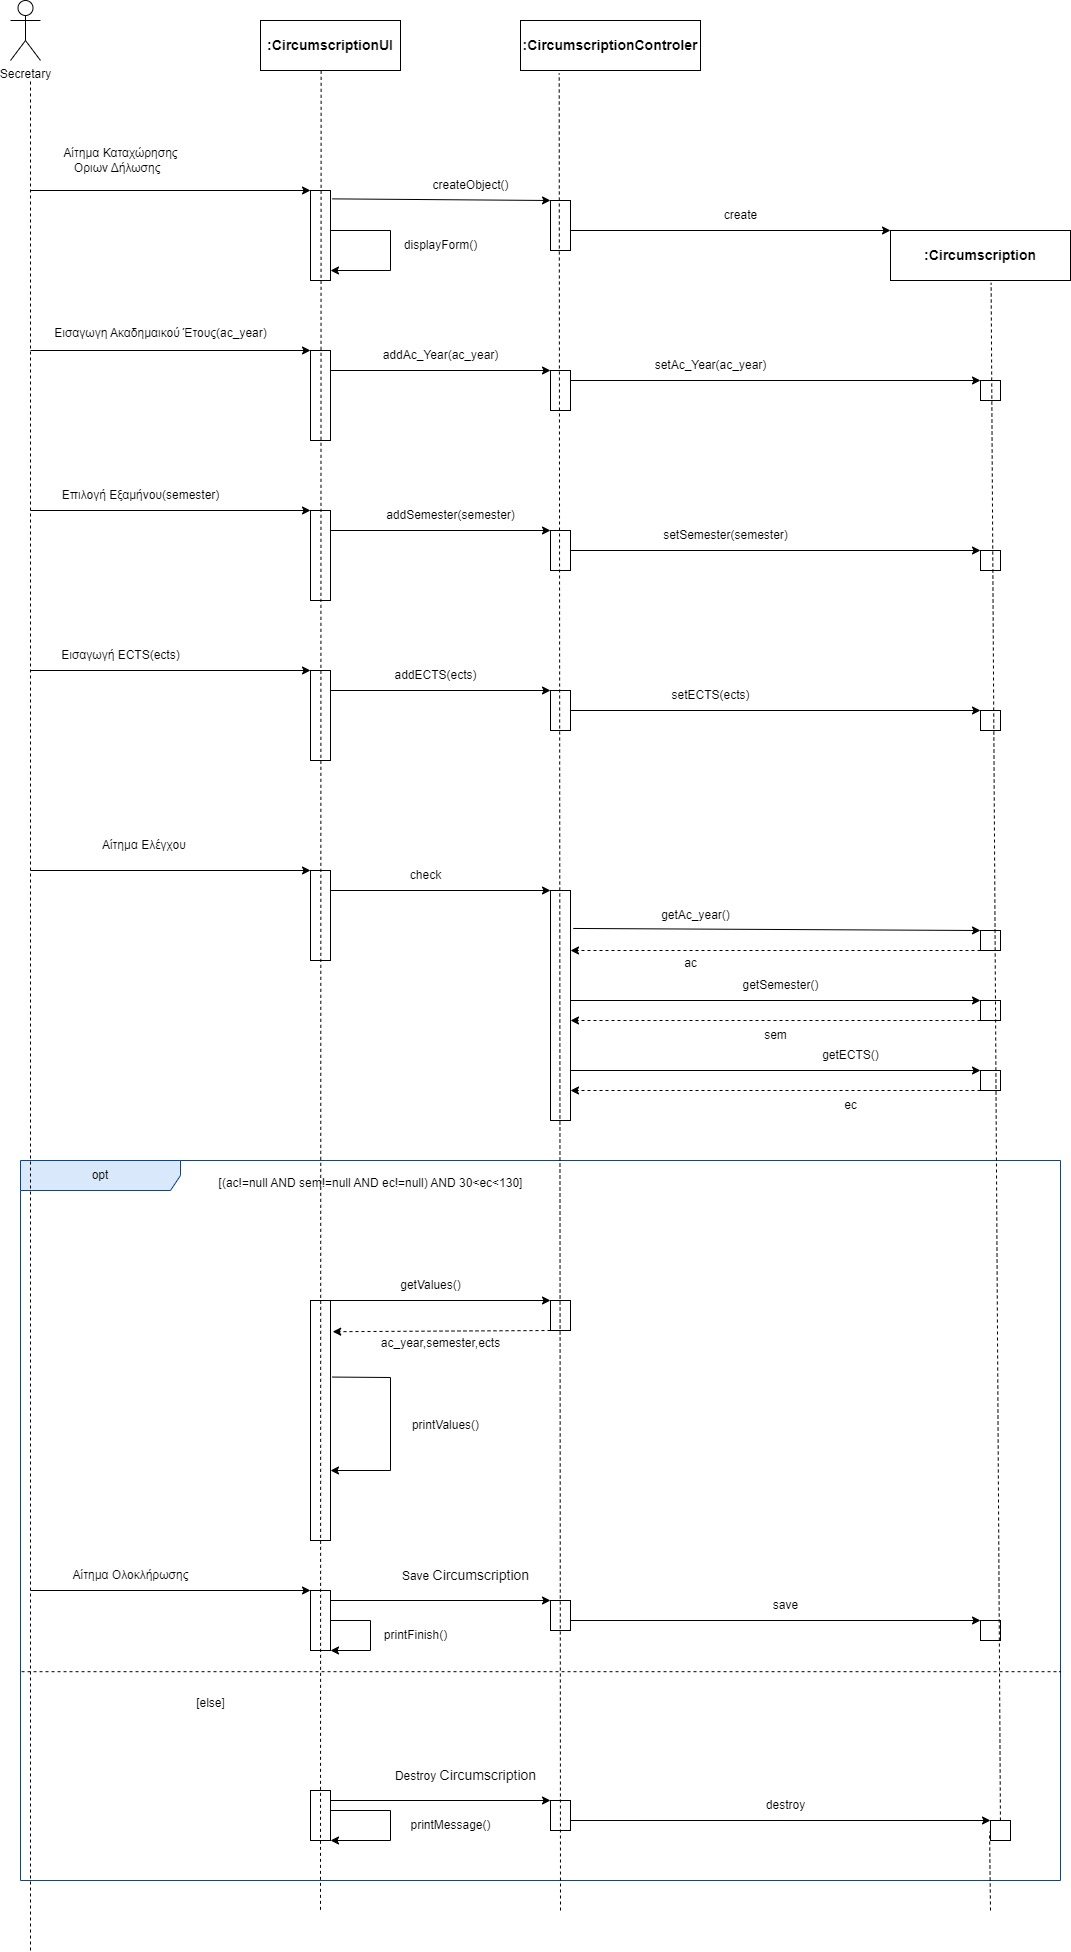
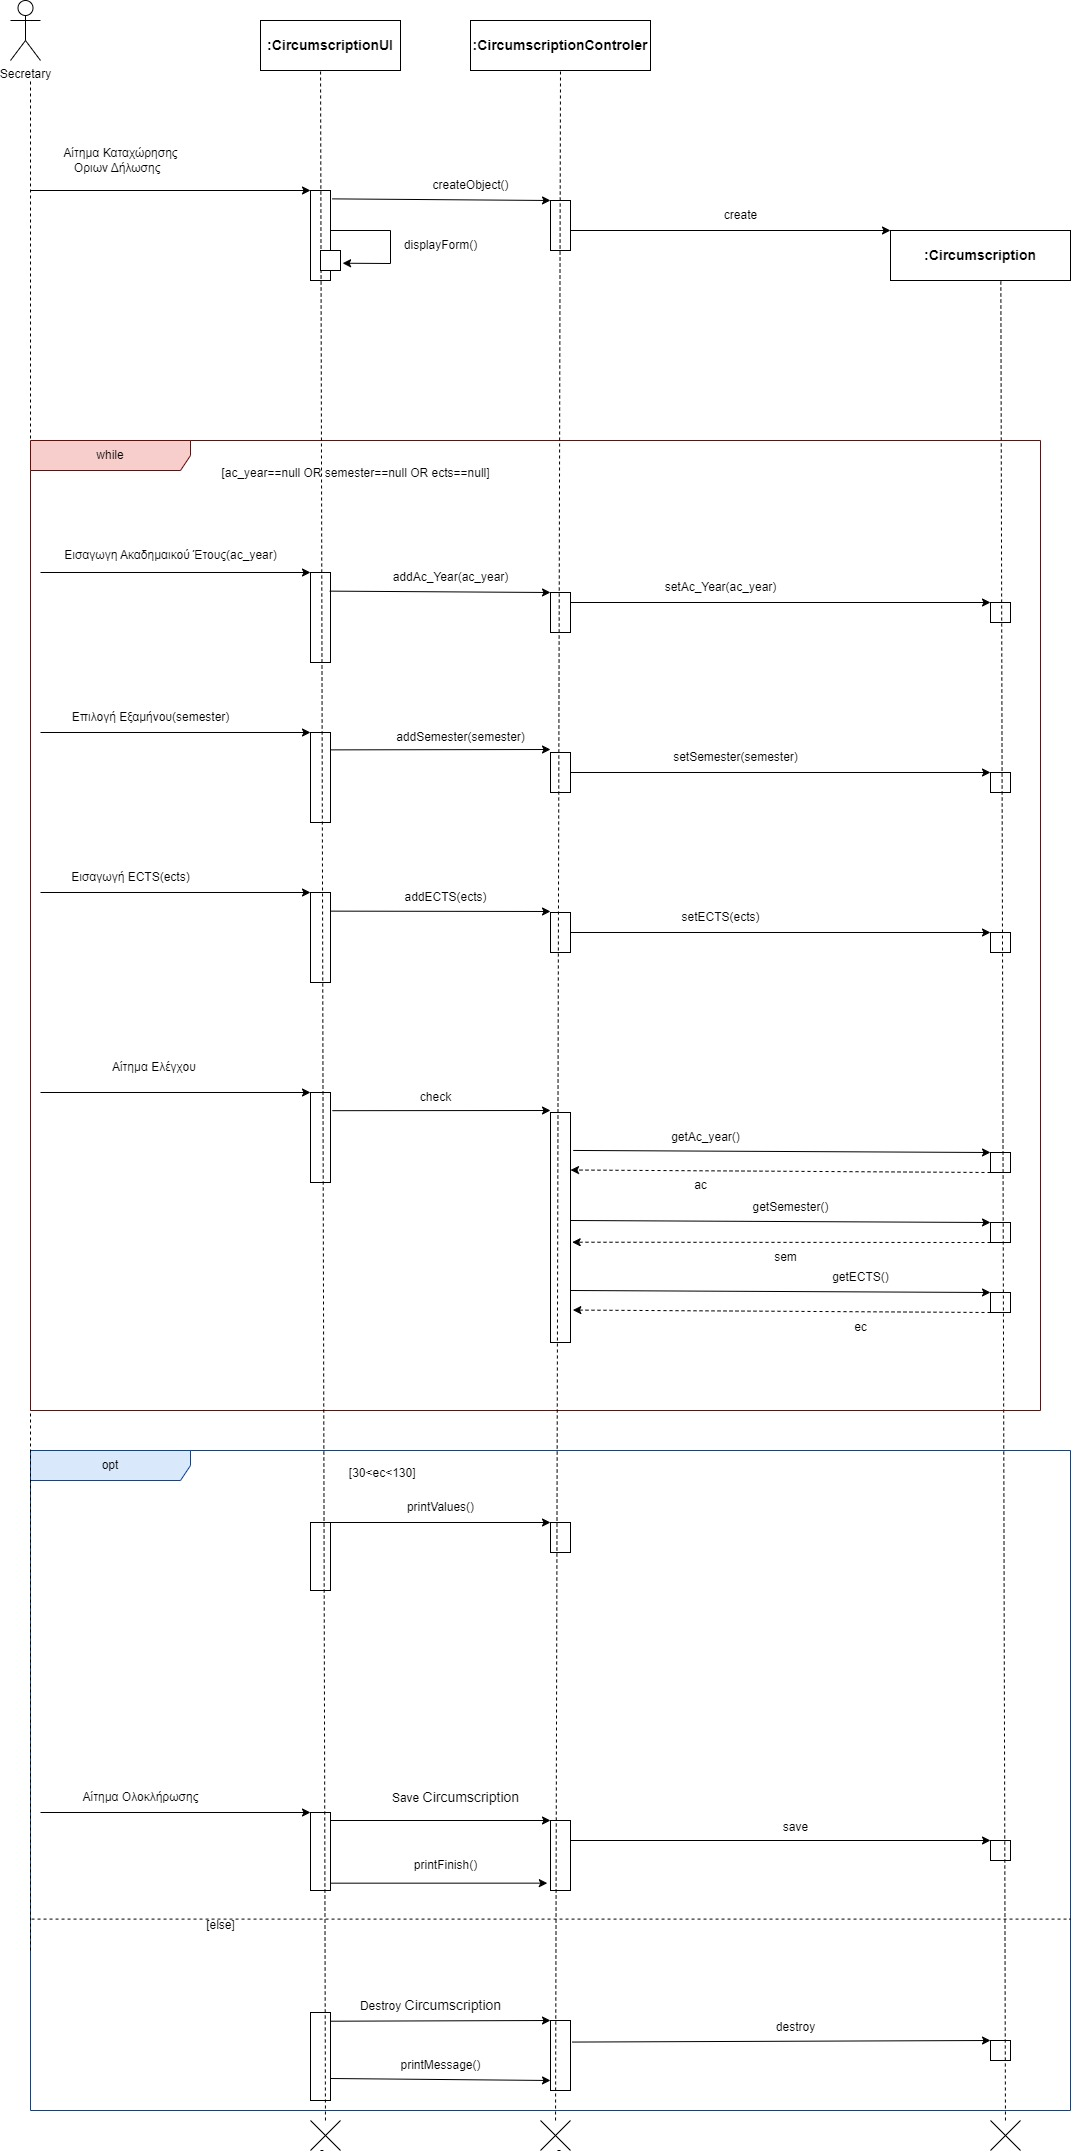
FINAL!!!!! SEQUENCE

diff --git a/docs/markdown/uc3-circumscription-of-course-registration.md b/docs/markdown/uc3-circumscription-of-course-registration.md
@@ -14,7 +14,7 @@
 1. Ο Υπεύθυνος Γραμματείας επιλέγει την καταχώρηση προυποθέσεων
 2. Το Σύστημα εμφανίζει την φόρμα συμπλήρωσης 
 3. Ο Υπεύθυνος Γραμματείας εισάγει το ακαδημαικό έτος.
-4. Ο Υπεύθυνος Γραμματείας επιλέγει το εξάμηνο και εισαγάγει τον αριθμό των ECTS που μπορούν να δηλωθούν.
+4. Ο Υπεύθυνος Γραμματείας επιλέγει εξάμηνο φοίτησης (1,2,3,4,5,6,7,8) και εισαγάγει τον αριθμό των ECTS που μπορούν να δηλωθούν.
 5. Ο Υπεύθυνος Γραμματείας εκκινεί τους απαραίτητους ελέγχους (αν ο αριθμός είναι μεγαλύτερος από 30 και μικρότερος από 130, αν έχουν συμπληρωθεί όλα τα πεδία)
 6. Το Σύστημα εμφανίζει την προεπισκόπηση. 
 7. O Υπεύθυνος Γραμματείας ολοκληρώνει την καταχώρηση.
